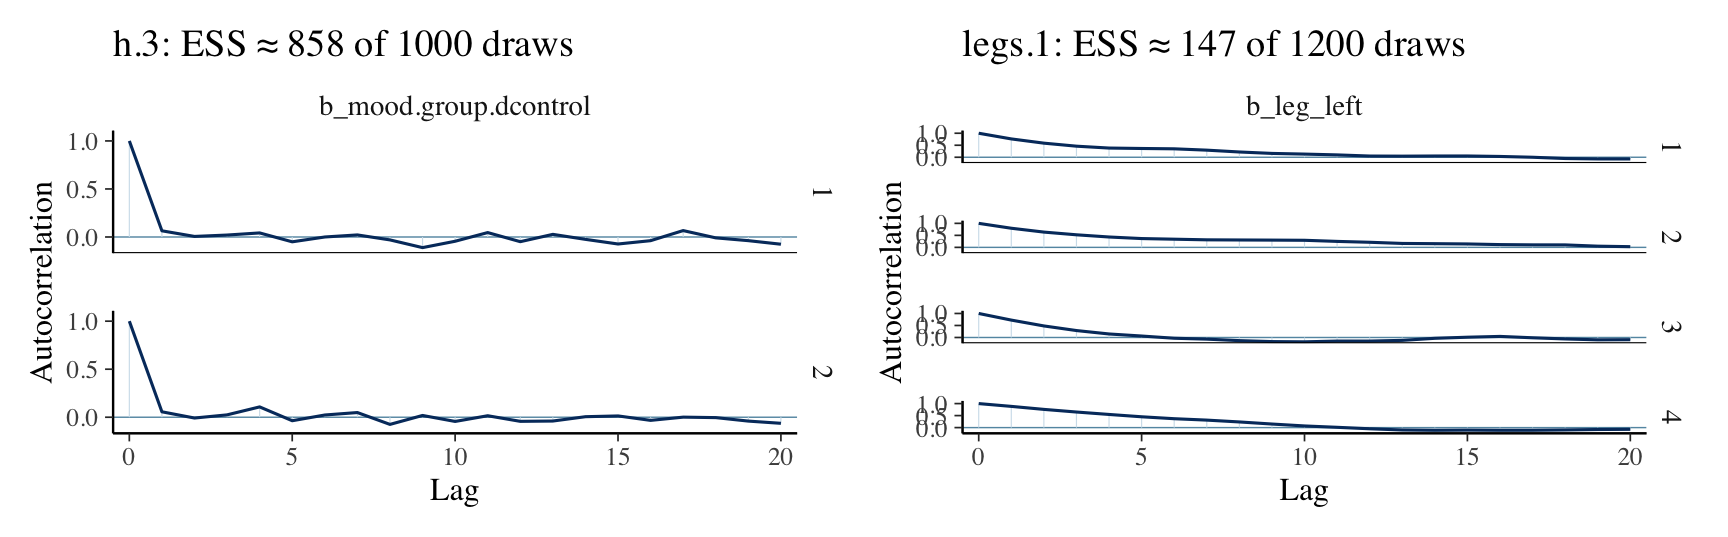
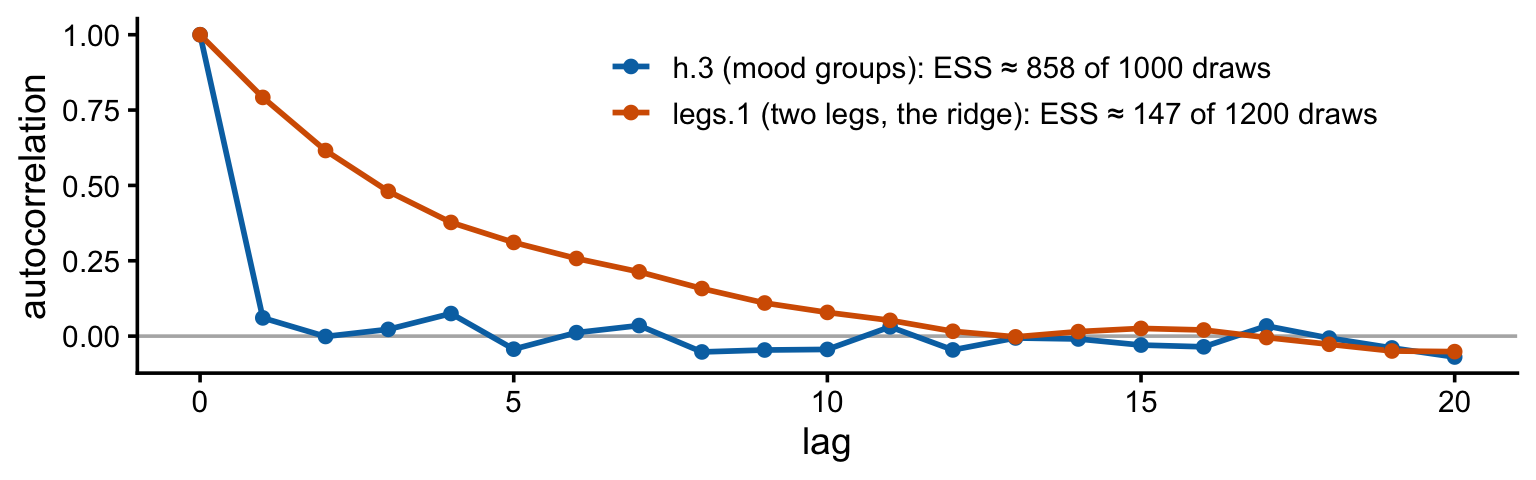
Lecture 5: autocorrelation/ESS slide is one plot comparing h.3 and legs.1 (chain-averaged ACF, ESS in the legend) instead of two cramped ACF panels

diff --git a/_site/mcmc-5.html b/_site/mcmc-5.html
@@ -1189,26 +1189,39 @@ scale reduction factor on split chains (at convergence, Rhat = 1).</code></pre>
 </div>
 <img data-src="mcmc-5_files/figure-revealjs/unnamed-chunk-25-1.png" width="960" class="r-stretch"><p>The data only pin down the <strong>sum</strong> of the two slopes, so the posterior is a long, thin ridge. Running longer maps the ridge more thoroughly but can’t make it narrower: <strong>fix the model</strong> (drop or combine the duplicate, or give the slopes real priors).</p>
 </section>
-<section id="autocorrelation-and-ess-side-by-side" class="slide level2 smaller nostretch">
-<h2>Autocorrelation and ESS, side by side</h2>
+<section id="autocorrelation-sets-the-ess" class="slide level2 smaller nostretch">
+<h2>Autocorrelation sets the ESS</h2>
+<p>How correlated is each draw with the draw <em>lag</em> steps later? (Averaged over chains.)</p>
 <div class="cell">
 <details class="code-fold">
 <summary>Code</summary>
-<div class="code-copy-outer-scaffold"><div class="sourceCode cell-code" id="cb31"><pre class="sourceCode numberSource r number-lines code-with-copy"><code class="sourceCode r"><span id="cb31-1"><a aria-label="1"></a>ess_of <span class="ot">&lt;-</span> <span class="cf">function</span>(m, par) <span class="fu">round</span>(posterior<span class="sc">::</span><span class="fu">ess_bulk</span>(posterior<span class="sc">::</span><span class="fu">extract_variable_matrix</span>(<span class="fu">as_draws_array</span>(m), par)))</span>
-<span id="cb31-2"><a aria-label="2"></a>(<span class="fu">mcmc_acf</span>(h<span class="fl">.3</span>, <span class="at">pars =</span> <span class="st">"b_mood.group.dcontrol"</span>) <span class="sc">+</span></span>
-<span id="cb31-3"><a aria-label="3"></a>   <span class="fu">labs</span>(<span class="at">title =</span> <span class="fu">paste0</span>(<span class="st">"h.3: ESS ≈ "</span>, <span class="fu">ess_of</span>(h<span class="fl">.3</span>, <span class="st">"b_mood.group.dcontrol"</span>), <span class="st">" of "</span>, <span class="fu">ndraws</span>(h<span class="fl">.3</span>), <span class="st">" draws"</span>))) <span class="sc">|</span></span>
-<span id="cb31-4"><a aria-label="4"></a>(<span class="fu">mcmc_acf</span>(legs<span class="fl">.1</span>, <span class="at">pars =</span> <span class="st">"b_leg_left"</span>) <span class="sc">+</span></span>
-<span id="cb31-5"><a aria-label="5"></a>   <span class="fu">labs</span>(<span class="at">title =</span> <span class="fu">paste0</span>(<span class="st">"legs.1: ESS ≈ "</span>, <span class="fu">ess_of</span>(legs<span class="fl">.1</span>, <span class="st">"b_leg_left"</span>), <span class="st">" of "</span>, <span class="fu">ndraws</span>(legs<span class="fl">.1</span>), <span class="st">" draws"</span>)))</span></code></pre></div><button title="Copy to Clipboard" class="code-copy-button"><i class="bi"></i></button></div>
+<div class="code-copy-outer-scaffold"><div class="sourceCode cell-code" id="cb31"><pre class="sourceCode numberSource r number-lines code-with-copy"><code class="sourceCode r"><span id="cb31-1"><a aria-label="1"></a>acf_by_lag <span class="ot">&lt;-</span> <span class="cf">function</span>(m, par, model_label) {</span>
+<span id="cb31-2"><a aria-label="2"></a>  draws_mat <span class="ot">&lt;-</span> posterior<span class="sc">::</span><span class="fu">extract_variable_matrix</span>(<span class="fu">as_draws_array</span>(m), par)   <span class="co"># iterations x chains</span></span>
+<span id="cb31-3"><a aria-label="3"></a>  ess <span class="ot">&lt;-</span> <span class="fu">round</span>(posterior<span class="sc">::</span><span class="fu">ess_bulk</span>(draws_mat))</span>
+<span id="cb31-4"><a aria-label="4"></a>  acf_mat <span class="ot">&lt;-</span> <span class="fu">apply</span>(draws_mat, <span class="dv">2</span>, <span class="cf">function</span>(chain) <span class="fu">acf</span>(chain, <span class="at">lag.max =</span> <span class="dv">20</span>, <span class="at">plot =</span> <span class="cn">FALSE</span>)<span class="sc">$</span>acf)</span>
+<span id="cb31-5"><a aria-label="5"></a>  <span class="fu">tibble</span>(<span class="at">lag =</span> <span class="dv">0</span><span class="sc">:</span><span class="dv">20</span>, <span class="at">autocorrelation =</span> <span class="fu">rowMeans</span>(acf_mat),</span>
+<span id="cb31-6"><a aria-label="6"></a>         <span class="at">model =</span> <span class="fu">paste0</span>(model_label, <span class="st">": ESS ≈ "</span>, ess, <span class="st">" of "</span>, <span class="fu">length</span>(draws_mat), <span class="st">" draws"</span>))</span>
+<span id="cb31-7"><a aria-label="7"></a>}</span>
+<span id="cb31-8"><a aria-label="8"></a><span class="fu">bind_rows</span>(<span class="fu">acf_by_lag</span>(h<span class="fl">.3</span>, <span class="st">"b_mood.group.dcontrol"</span>, <span class="st">"h.3 (mood groups)"</span>),</span>
+<span id="cb31-9"><a aria-label="9"></a>          <span class="fu">acf_by_lag</span>(legs<span class="fl">.1</span>, <span class="st">"b_leg_left"</span>, <span class="st">"legs.1 (two legs, the ridge)"</span>)) <span class="sc">%&gt;%</span></span>
+<span id="cb31-10"><a aria-label="10"></a>  <span class="fu">ggplot</span>(<span class="fu">aes</span>(lag, autocorrelation, <span class="at">colour =</span> model)) <span class="sc">+</span></span>
+<span id="cb31-11"><a aria-label="11"></a>  <span class="fu">geom_hline</span>(<span class="at">yintercept =</span> <span class="dv">0</span>, <span class="at">colour =</span> <span class="st">"grey70"</span>) <span class="sc">+</span></span>
+<span id="cb31-12"><a aria-label="12"></a>  <span class="fu">geom_line</span>(<span class="at">linewidth =</span> <span class="dv">1</span>) <span class="sc">+</span> <span class="fu">geom_point</span>() <span class="sc">+</span></span>
+<span id="cb31-13"><a aria-label="13"></a>  <span class="fu">scale_colour_manual</span>(<span class="at">values =</span> <span class="fu">c</span>(<span class="st">"#0072B2"</span>, <span class="st">"#D55E00"</span>), <span class="at">name =</span> <span class="cn">NULL</span>) <span class="sc">+</span></span>
+<span id="cb31-14"><a aria-label="14"></a>  <span class="fu">theme_classic</span>(<span class="at">base_size =</span> <span class="dv">14</span>) <span class="sc">+</span> <span class="fu">theme</span>(<span class="at">legend.position =</span> <span class="st">"inside"</span>, <span class="at">legend.position.inside =</span> <span class="fu">c</span>(.<span class="dv">62</span>, .<span class="dv">8</span>))</span></code></pre></div><button title="Copy to Clipboard" class="code-copy-button"><i class="bi"></i></button></div>
 </details>
 <div class="cell-output-display">
 <div>
 <figure>
-<p><img data-src="mcmc-5_files/figure-revealjs/unnamed-chunk-26-1.png" style="width:100.0%"></p>
+<p><img data-src="mcmc-5_files/figure-revealjs/unnamed-chunk-26-1.png" style="width:80.0%"></p>
 </figure>
 </div>
 </div>
 </div>
-<p>On a ridge, each draw is close to the last one: high autocorrelation, so 1,200 draws are worth far fewer independent ones.</p>
+<ul>
+<li><strong>h.3:</strong> the correlation drops to about 0 after one step, so its draws are nearly independent and the ESS is close to the number of draws</li>
+<li><strong>legs.1:</strong> on a ridge, each draw is close to the last, so the correlation fades slowly and the draws are worth far fewer independent ones</li>
+</ul>
 </section>
 <section id="running-longer-doesnt-fix-it" class="slide level2 smaller">
 <h2>Running longer doesn’t fix it</h2>
